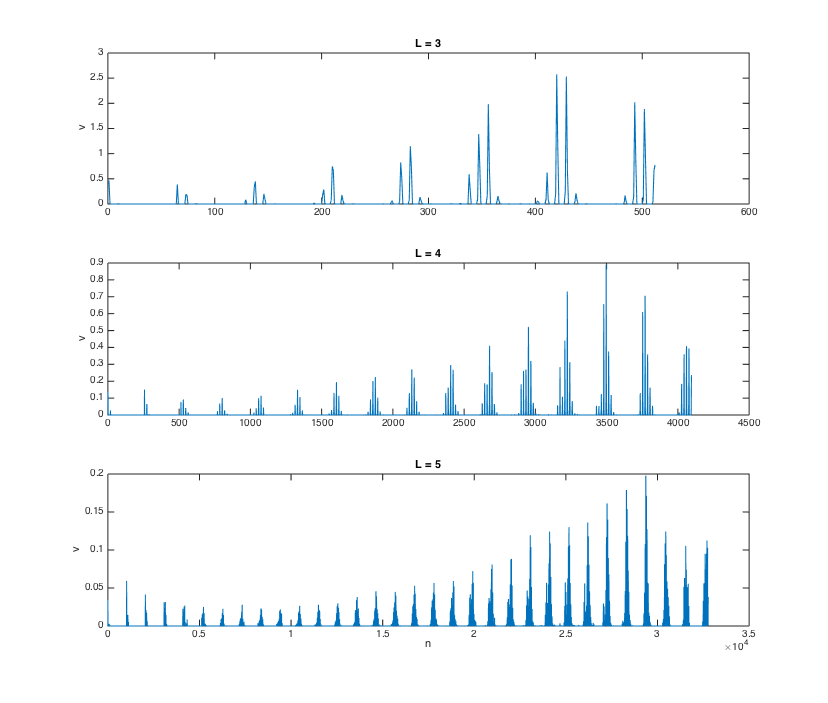
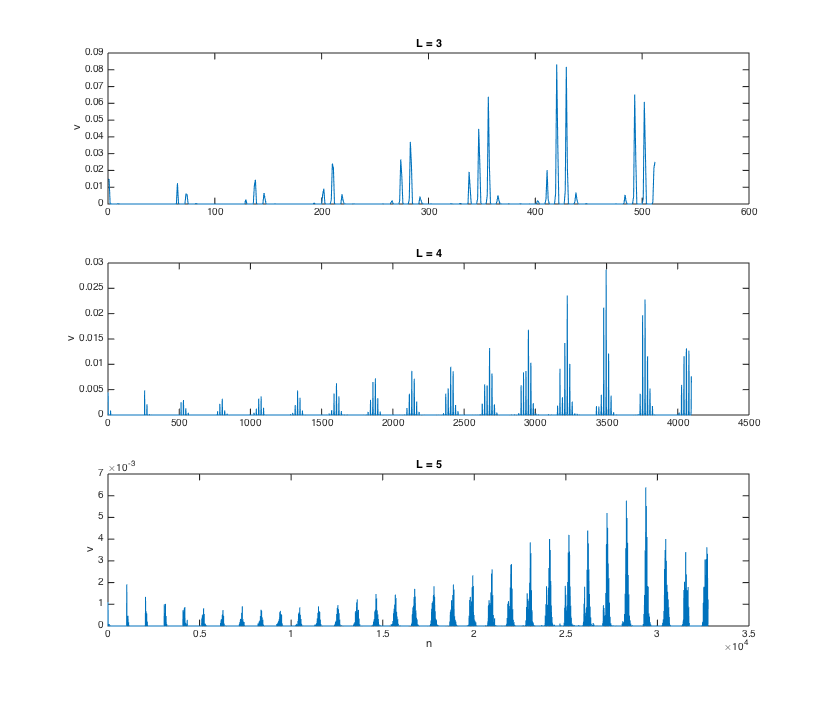
Fix a bug in train_face_model

diff --git a/src/task4/train_face_model.m b/src/task4/train_face_model.m
@@ -8,4 +8,5 @@ function v = train_face_model(imgs, L)
         img = quantize_img(imgs{k}, L);
         v = v + histc(img(:), 0:bin_num-1) / numel(img);
     end
+    v = v / length(imgs);
 end

diff --git a/report/report.md b/report/report.md
@@ -1351,6 +1351,7 @@ function v = train_face_model(imgs, L)
         img = quantize_img(imgs{k}, L);
         v = v + histc(img(:), 0:bin_num-1) / numel(img);
     end
+    v = v / length(imgs);
 end
 ```
 
